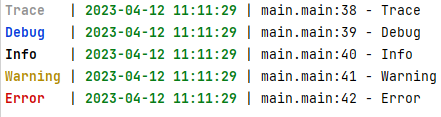
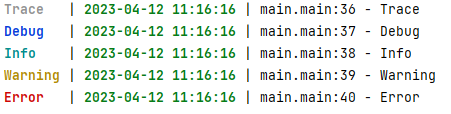
修改默认显示颜色

diff --git a/demo.go b/demo.go
@@ -19,7 +19,7 @@ func main() {
 	logger.Config.PrintLevel = glog.TraceLevel  // 默认是 debug 级别，这里修改
 	logger.Config.OutPutLevel = glog.TraceLevel // 默认是 debug 级别，这里修改
 
-	// AddOutPut
+	//// AddOutPut
 	file, _ := os.OpenFile("demo.log", os.O_CREATE|os.O_WRONLY|os.O_APPEND, 0666)
 	logger.AddOutPut(file)
 

diff --git a/glog/default.go b/glog/default.go
@@ -51,7 +51,7 @@ var DefaultDebugColor = &ColorFormatter{
 // DefaultInfoColor Info 级别默认显示的颜色
 var DefaultInfoColor = &ColorFormatter{
 	Model:           1,    // 显示模式
-	ForegroundColor: "30", // 前景色
+	ForegroundColor: "36", // 前景色
 	BackgroundColor: "",   // 背景色
 }
 
